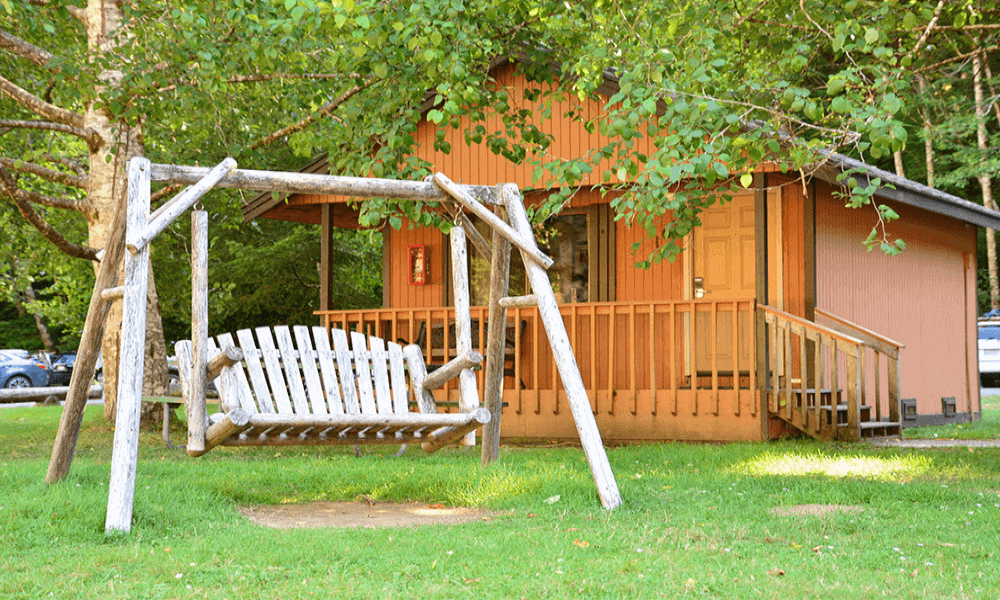
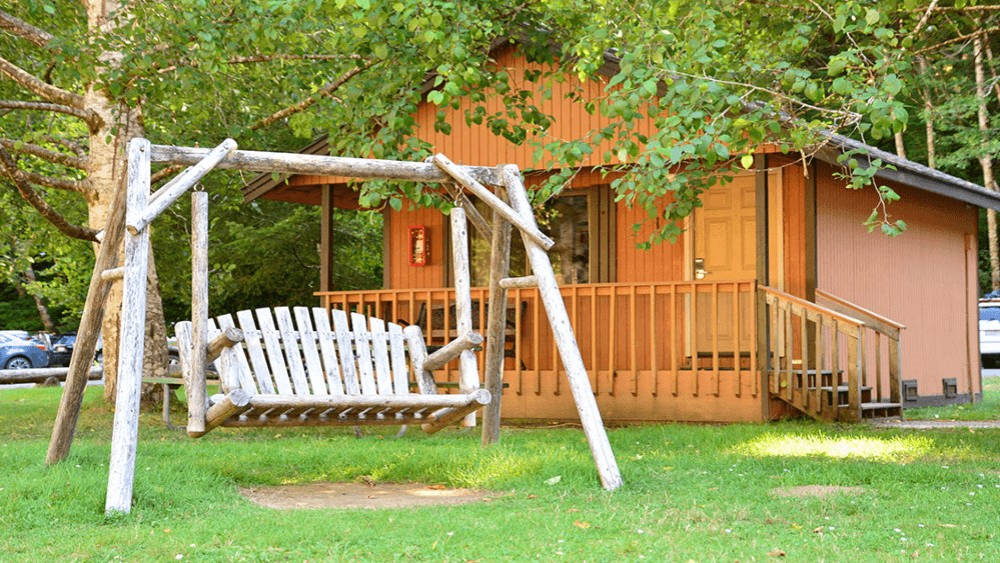
resize primary images on each page

diff --git a/assets/css/style.css b/assets/css/style.css
@@ -165,7 +165,7 @@ div {
   display: block;
   margin-left: auto;
   margin-right: auto;
-  width: 50%;
+  width: 70%;
 }
 
 .secondary {
@@ -195,6 +195,6 @@ div {
 
 @media only screen and (max-width: 767px) {
 .primary {
-    width: 75%;
+    width: 100%;
   }
 }

diff --git a/TESTING.md b/TESTING.md
@@ -11,6 +11,6 @@ View website on [Github Pages](https://freddorn.github.io/relaxing-hotsprings/)
 
 * [W3C CSS validation](https://jigsaw.w3.org/css-validator/)
     - To check the the validity of the CSS code. 
-    - 
+    
 - [W3C Markup Validation]( https://validator.w3.org/)
     - To check the the validity of the HTML code. 
